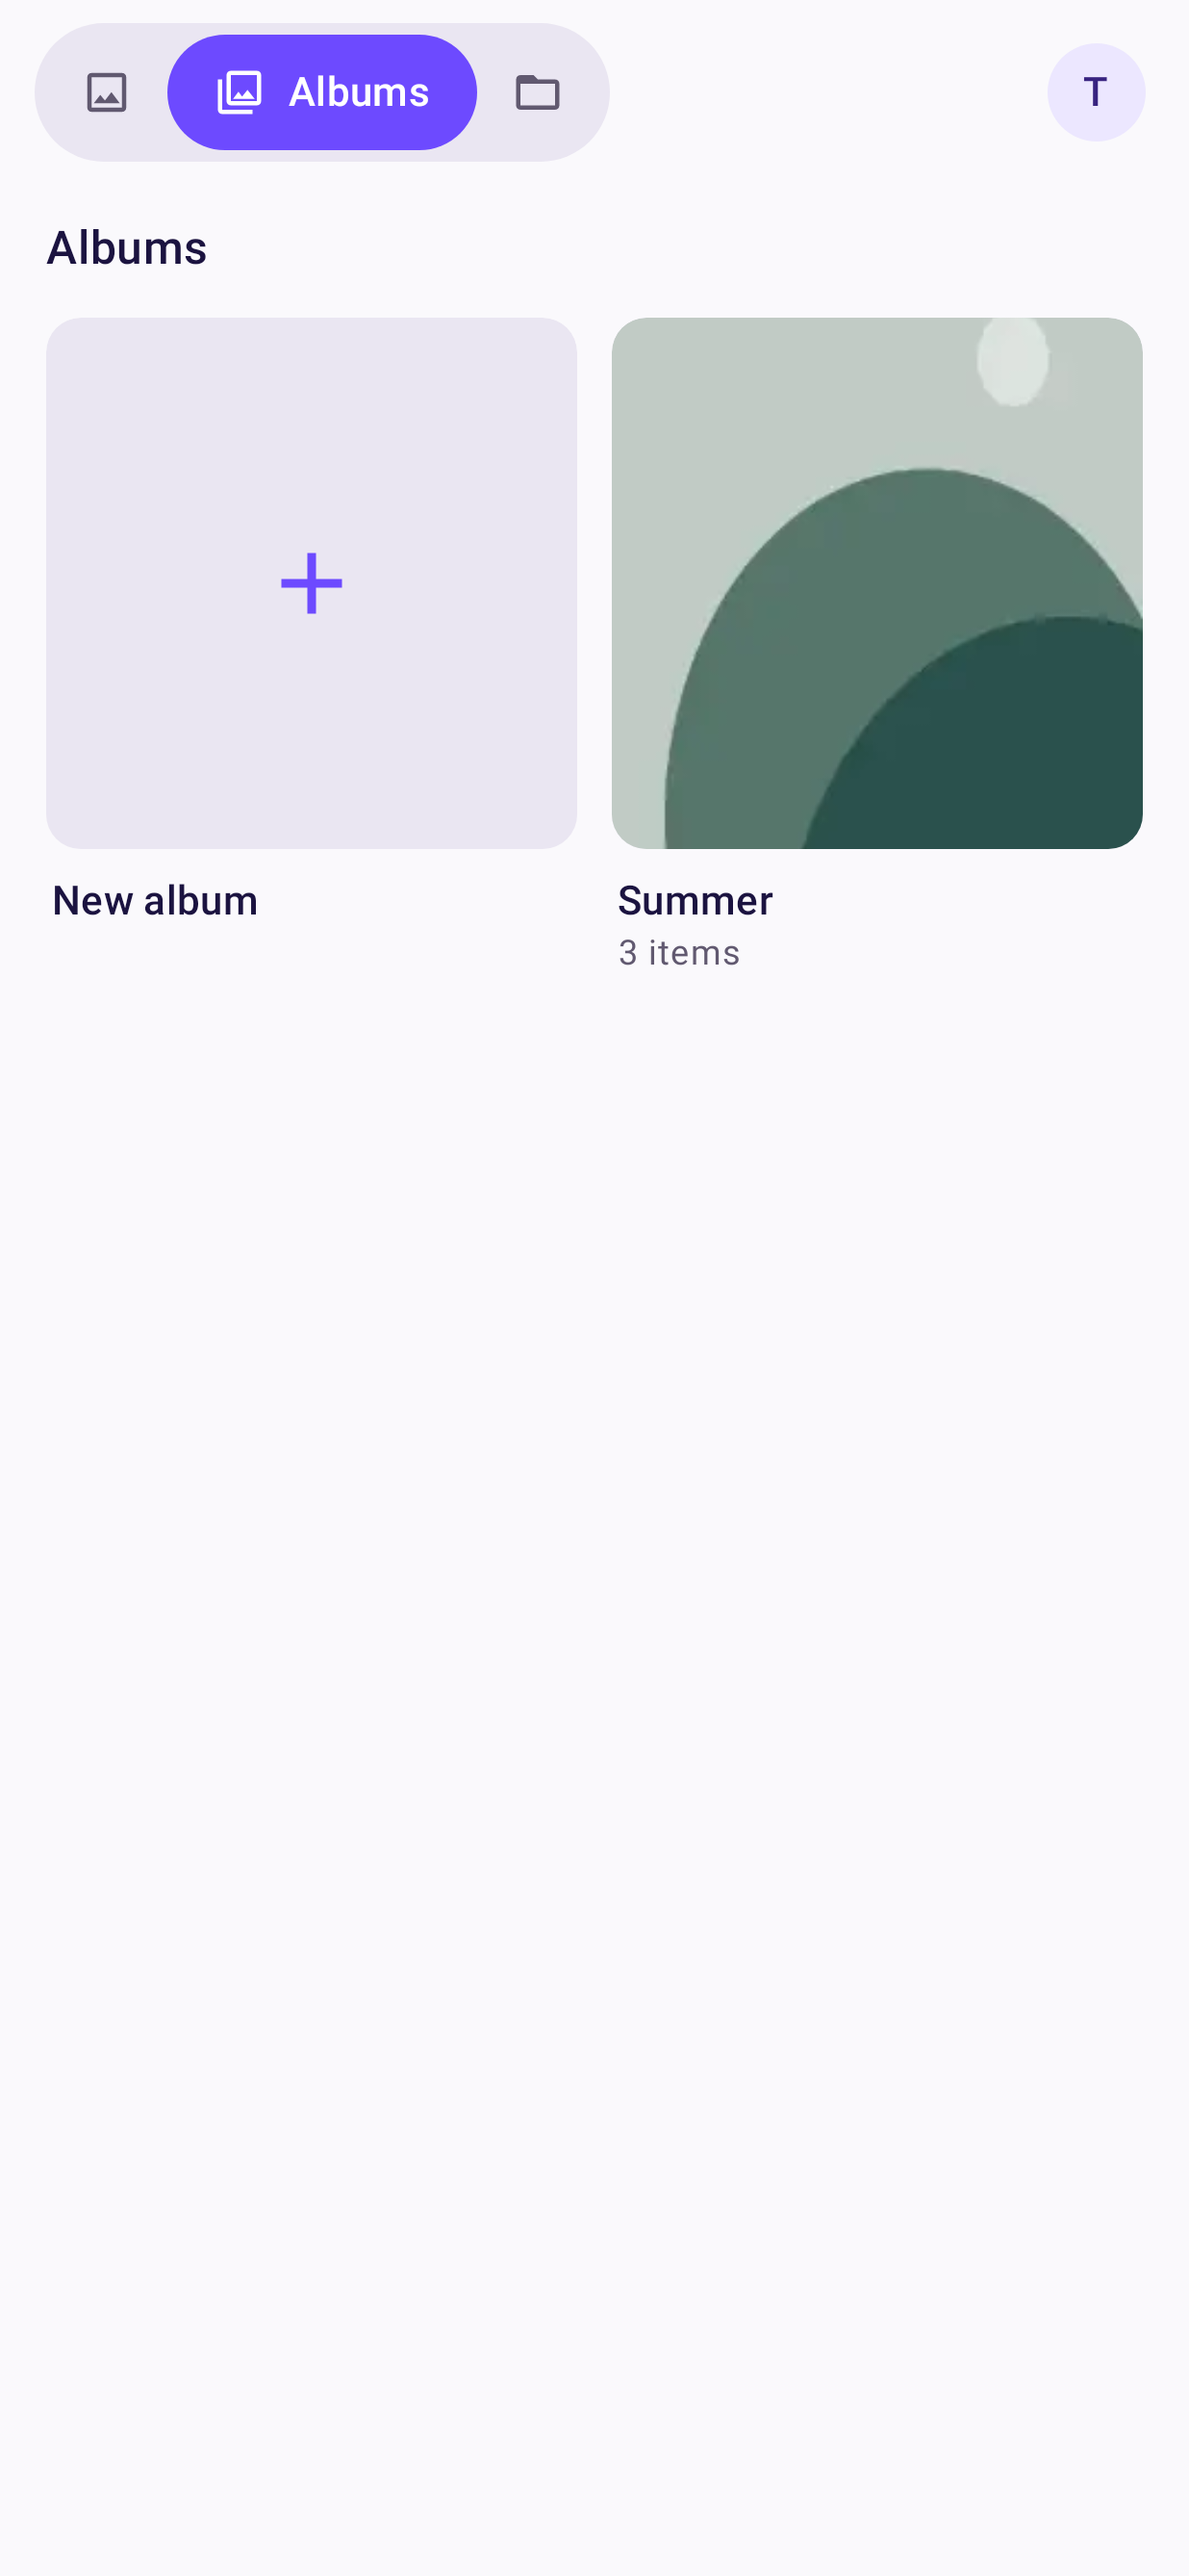
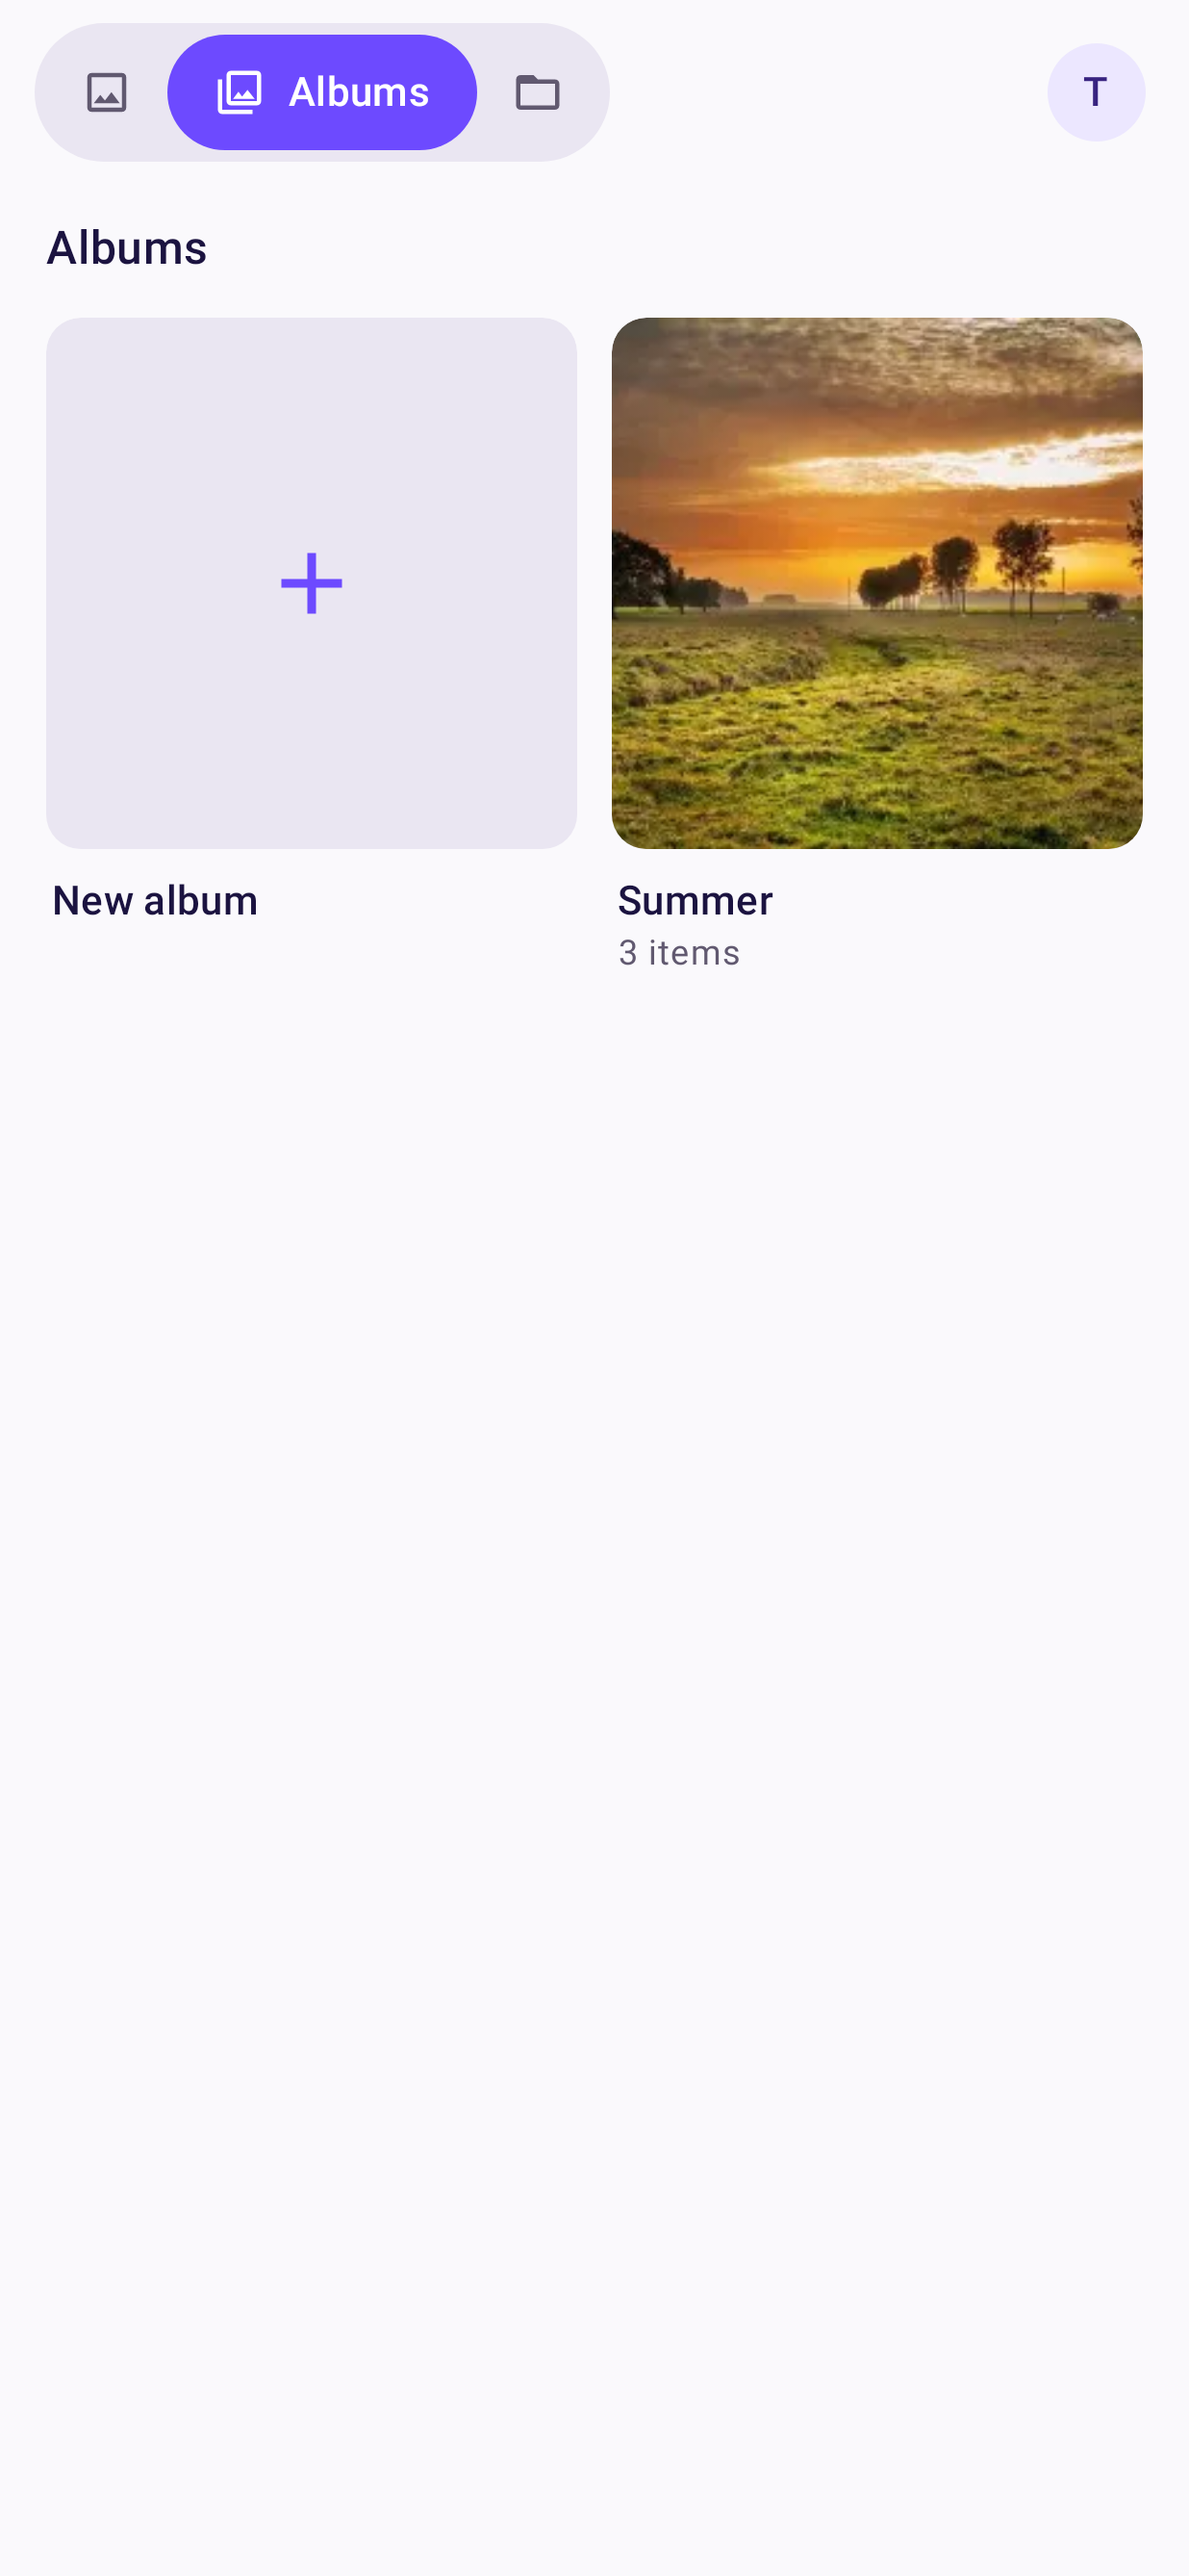
test: capture Gallery with Drive demo photos

Changed region(s): [[0.4919, 0.1241, 0.9838, 0.3412]]

diff --git a/android/app/src/test/java/io/narl/protongallery/GalleryUiTest.kt b/android/app/src/test/java/io/narl/protongallery/GalleryUiTest.kt
@@ -1,6 +1,7 @@
 package io.narl.protongallery
 
 import android.graphics.Bitmap
+import android.graphics.BitmapFactory
 import android.graphics.Canvas
 import android.graphics.Color
 import android.graphics.Paint
@@ -40,6 +41,7 @@ import org.robolectric.RobolectricTestRunner
 import org.robolectric.annotation.Config
 import org.robolectric.annotation.GraphicsMode
 import java.io.File
+import kotlinx.coroutines.runBlocking
 
 @RunWith(RobolectricTestRunner::class)
 @GraphicsMode(GraphicsMode.Mode.NATIVE)
@@ -141,6 +143,10 @@ class GalleryUiTest {
         compose.onNodeWithText("2026").performClick()
         compose.onNodeWithText("Coast").performClick()
         compose.waitUntil(10_000) { compose.onAllNodesWithContentDescription("Photo: Coast 0.jpg").fetchSemanticsNodes().isNotEmpty() }
+        if (System.getProperty("pg.screenshot.photos") != null) {
+            compose.onRoot().performTouchInput { swipeDown() }
+            compose.onNodeWithText("Coast").assertIsDisplayed()
+        }
         compose.onRoot().captureRoboImage("build/screenshots/nested-album-light.png")
         compose.onNodeWithContentDescription("Back").performClick()
         compose.onNodeWithText("Coast").assertExists()
@@ -524,7 +530,14 @@ class GalleryUiTest {
         media: MediaActions = MediaActions(), pick: PickRequest? = null, onPick: (List<GalleryItem>) -> Unit = {}, state: LibraryState? = null,
         photoAlbums: List<FolderAlbum> = emptyList(), albumActions: AlbumActions = AlbumActions(),
         driveRoots: List<FolderAlbum> = emptyList(), privacy: PrivacyLock = PrivacyLock()) {
-        val directory = File("build/test-thumbnails-smart").apply { mkdirs() }
+        val thumbnailDirectory = if (System.getProperty("pg.screenshot.photos") == null) "build/test-thumbnails-smart" else "build/screenshot-photo-thumbnails"
+        val directory = File(thumbnailDirectory).apply { mkdirs() }
+        val thumbnailLoader = ThumbnailLoader(directory, phone = { ThumbnailLoader.decodeImage(File(it.localPath), 384) })
+        if (System.getProperty("pg.screenshot.photos") != null) {
+            // Capture the cached-library state, as Drive's demo does. Album
+            // navigation must not race the first JPEG decode during capture.
+            runBlocking { items.forEach { requireNotNull(thumbnailLoader.load(it)) { "Cannot decode demo photo: ${it.localPath}" } } }
+        }
         compose.setContent {
             var location by remember { mutableStateOf(initialLocation) }
             val root = remember { FolderAlbum("gallery", "root", null, "Trips", 0uL, 1uL) }
@@ -543,7 +556,7 @@ class GalleryUiTest {
             CompositionLocalProvider(LocalDensity provides Density(LocalDensity.current.density, fontScale)) {
                 GalleryTheme(theme) {
                     GalleryApp(state ?: LibraryState(ready = true, count = visible.size.toLong(), bytes = 12_000_000), outline,
-                        remember { ThumbnailLoader(directory, phone = { ThumbnailLoader.decodeImage(File(it.localPath), 384) }) }, theme, zoom, onImport, { theme = it },
+                        remember { thumbnailLoader }, theme, zoom, onImport, { theme = it },
                         { zoom = it; onZoom(it) }, {}, {}, location, albums, { location = it },
                         options = if (location.album?.id == "coast") options else null,
                         account = account, backup = backup, backupActions = actions, media = media, pick = pick, onPick = onPick,
@@ -559,8 +572,9 @@ class GalleryUiTest {
         }
     }
 
-    /** Procedural test fixtures, not user photos and not shipped demo content. */
+    /** Normal tests use drawings; screenshot captures can opt into Drive's public demo photos. */
     private fun fixtureItems(): List<GalleryItem> {
+        System.getProperty("pg.screenshot.photos")?.let { return photoFixtureItems(File(it)) }
         val dir = File("build/test-media").apply { mkdirs() }
         return (0..23).map { index ->
             val file = File(dir, "coast-$index.jpg")
@@ -578,6 +592,24 @@ class GalleryUiTest {
             file.outputStream().use { bitmap.compress(Bitmap.CompressFormat.JPEG, 90, it) }
             bitmap.recycle()
             GalleryItem("fixture-smart-$index", "Coast $index.jpg", "image/jpeg", false, file.length().toULong(), 1_789_000_000L - index / 9 * 86_400, file.absolutePath, dimensions.first.toDouble() / dimensions.second)
+        }
+    }
+
+    private fun photoFixtureItems(directory: File): List<GalleryItem> {
+        val photos = directory.listFiles()?.filter { it.isFile && it.extension.equals("jpg", ignoreCase = true) }?.sortedBy { it.name }
+            ?: error("Cannot read screenshot photo directory: $directory")
+        require(photos.isNotEmpty()) { "No JPEG demo photos in $directory" }
+        val output = File("build/screenshot-photo-media").apply { mkdirs() }
+        return (0..23).map { index ->
+            val source = photos[index % photos.size]
+            val file = File(output, "coast-$index.jpg")
+            source.copyTo(file, overwrite = true)
+            val dimensions = BitmapFactory.Options().apply { inJustDecodeBounds = true }
+            BitmapFactory.decodeFile(file.absolutePath, dimensions)
+            require(dimensions.outWidth > 0 && dimensions.outHeight > 0) { "Invalid demo photo: $source" }
+            GalleryItem("screenshot-photo-$index-${source.name}", "Coast $index.jpg", "image/jpeg", false,
+                file.length().toULong(), 1_789_000_000L - index / 9 * 86_400, file.absolutePath,
+                dimensions.outWidth.toDouble() / dimensions.outHeight)
         }
     }
 }

diff --git a/docs/ANDROID.md b/docs/ANDROID.md
@@ -175,6 +175,25 @@ This builds the APK and runs Android lint and Robolectric interaction/layout tes
 The limits above describe the implementation, not Android device measurements.
 
 
+## Website screenshots
+
+The website and README use the same public demo photographs as Drive’s photo captures,
+with synthetic Gallery metadata. No private account is opened. Ordinary UI tests retain
+procedural images; the screenshot job opts into the photo fixtures explicitly.
+
+After a development build has produced the host native library and generated bindings:
+
+```sh
+JAVA_HOME=/path/to/jdk-21 scripts/screenshots.sh --photos ~/.cache/pdfs-screenshots
+```
+
+The photo directory is the cache populated by Drive’s `scripts/screenshots.sh`, or any
+explicitly supplied directory of demo JPEGs. The helper runs the relevant Compose UI tests
+and snapshots the photo captures to `android/app/build/photo-screenshots/`, separately
+from ordinary test output. The websites’ sync scripts then
+copy those captures and regenerate their social previews. The photographs are test inputs
+and website assets; they are not bundled with the Android app.
+
 ## Signed device-testing build
 
 A dedicated variant uses the persistent key in `~/Keys/proton-gallery/testing.p12` and private profile `~/Keys/proton-gallery/testing.json`. The alias is `proton-gallery-testing`. The directory is mode 700; both files are mode 600. Credentials are not stored in the checkout, printed, or passed on command lines.

diff --git a/README.md b/README.md
@@ -75,7 +75,7 @@ integration is available with an additional device setup step; see the
   </tr>
 </table>
 
-Actual Android UI captures using procedural test photos; no private account or photo library is shown.
+Actual Android UI captures using the same public demo photographs as Proton Drive, with synthetic library metadata; no private photo library is shown.
 
 ## Install
 
